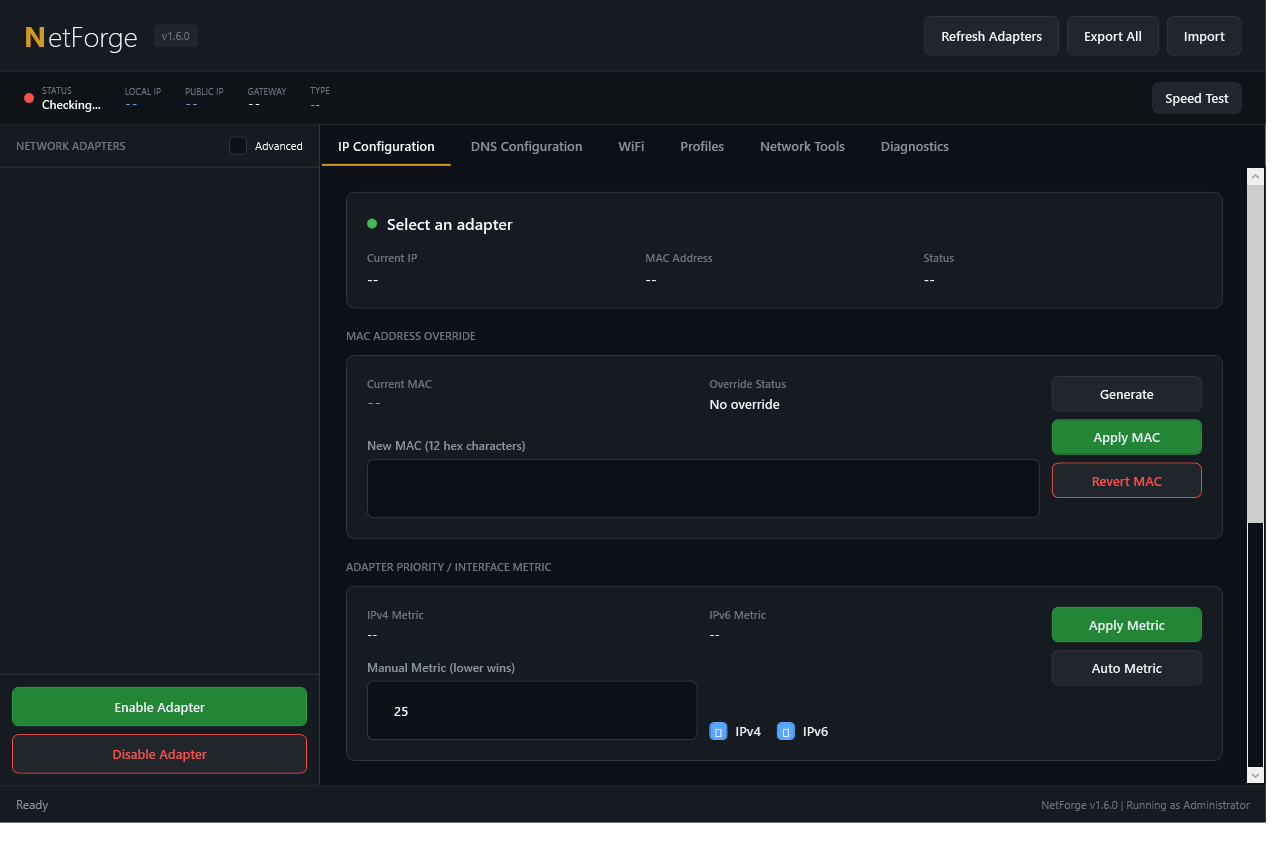
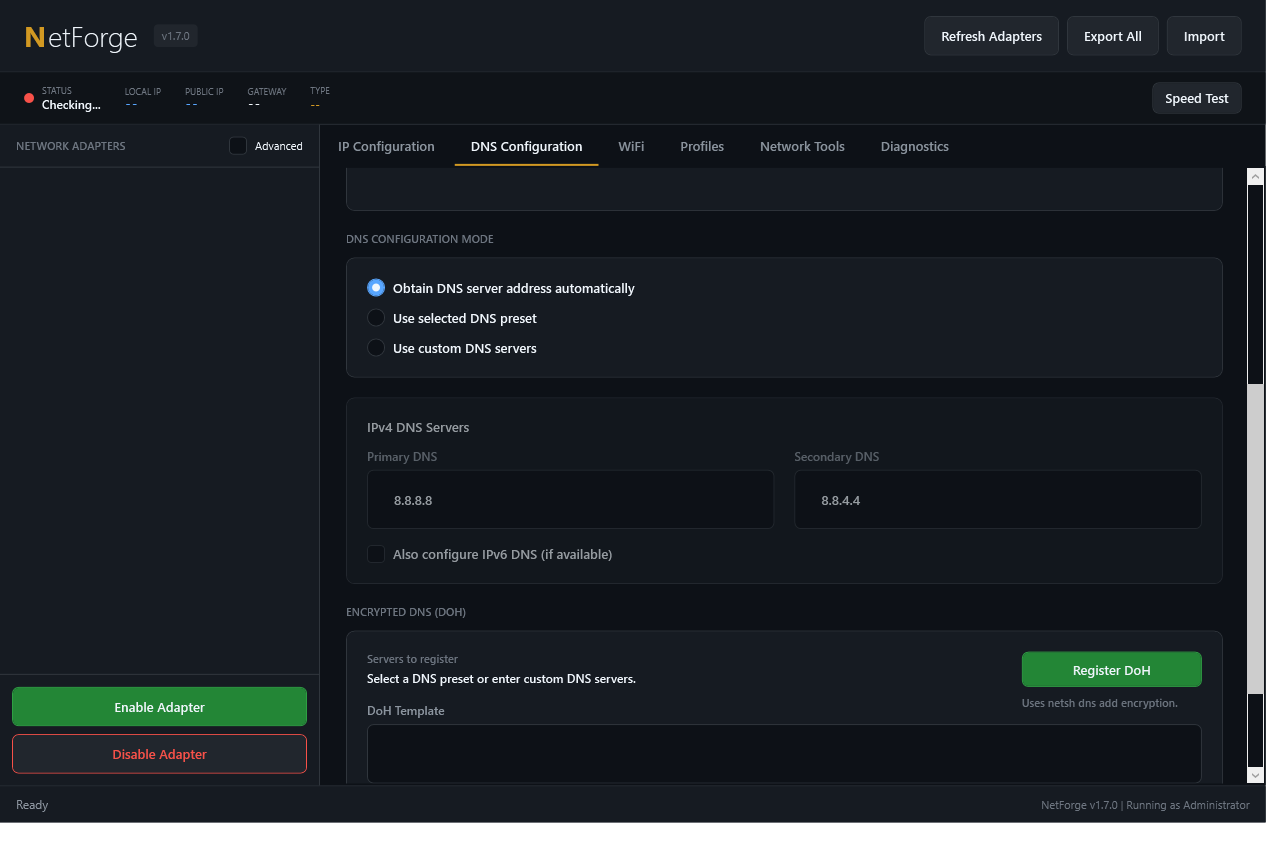
feat: add DoH encryption registration

diff --git a/README.md b/README.md
@@ -6,7 +6,7 @@
   <img src="https://img.shields.io/badge/Platform-Windows-0078D6?style=for-the-badge&logo=windows" alt="Windows"/>
   <img src="https://img.shields.io/badge/PowerShell-5.1+-5391FE?style=for-the-badge&logo=powershell&logoColor=white" alt="PowerShell"/>
   <img src="https://img.shields.io/badge/License-MIT-green?style=for-the-badge" alt="License"/>
-  <img src="https://img.shields.io/badge/Version-1.6.0-orange?style=for-the-badge" alt="Version"/>
+  <img src="https://img.shields.io/badge/Version-1.7.0-orange?style=for-the-badge" alt="Version"/>
 </p>
 
 <p align="center">
@@ -65,6 +65,7 @@
   - **Ad-Blocking**: AdGuard DNS, Alternate DNS
 - Custom DNS server configuration
 - IPv6 DNS support for compatible presets
+- Windows DoH encryption registration through `netsh dns add encryption`
 - Search and filter DNS presets
 
 ### Profile System
